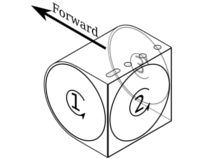
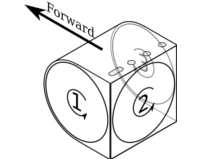
Control panel image now changes depending on type of mobot connected

Changed region(s): [[0.12, 0.0, 0.9, 1.0], [0.33, 0.5535, 0.45, 0.7547]]

diff --git a/controlDialog.cpp b/controlDialog.cpp
@@ -162,29 +162,34 @@ gboolean controllerHandlerTimeout(gpointer data)
     g_activeMobot = mobot;
     /* Get the form factor and disable certain widgets if necessary */
     rc = Mobot_getFormFactor((mobot_t*)g_activeMobot, &form);
+    w = GTK_WIDGET(gtk_builder_get_object(g_builder, "image_jointDiagram"));
     if(rc) {
       /* Normal Mobot. Enable all widgets*/
       setMotorWidgetsSensitive(2, true);
       setMotorWidgetsSensitive(3, true);
       setMotorWidgetsSensitive(4, true);
+      gtk_image_set_from_file(GTK_IMAGE(w), "imobot_diagram.png");
       motorMask = 0x0F;
     } else if (form == MOBOTFORM_L) {
       /* Disable widgets for motors 3 and 4 */
       setMotorWidgetsSensitive(2, true);
       setMotorWidgetsSensitive(3, false);
       setMotorWidgetsSensitive(4, false);
+      gtk_image_set_from_file(GTK_IMAGE(w), "DOF_joint_diagram.png");
       motorMask = 0x03;
     } else if (form == MOBOTFORM_I) {
       /* Disable widgets for motors 2 and 4 */
       setMotorWidgetsSensitive(2, false);
       setMotorWidgetsSensitive(3, true);
       setMotorWidgetsSensitive(4, false);
+      gtk_image_set_from_file(GTK_IMAGE(w), "interface/DOF_joint_diagram.png");
       motorMask = 0x05;
     } else {
       /* Enable all widgets */
       setMotorWidgetsSensitive(2, true);
       setMotorWidgetsSensitive(3, true);
       setMotorWidgetsSensitive(4, true);
+      gtk_image_set_from_file(GTK_IMAGE(w), "imobot_diagram.png");
       motorMask = 0x0F;
     }
     MUTEX_UNLOCK(&g_activeMobotLock);
